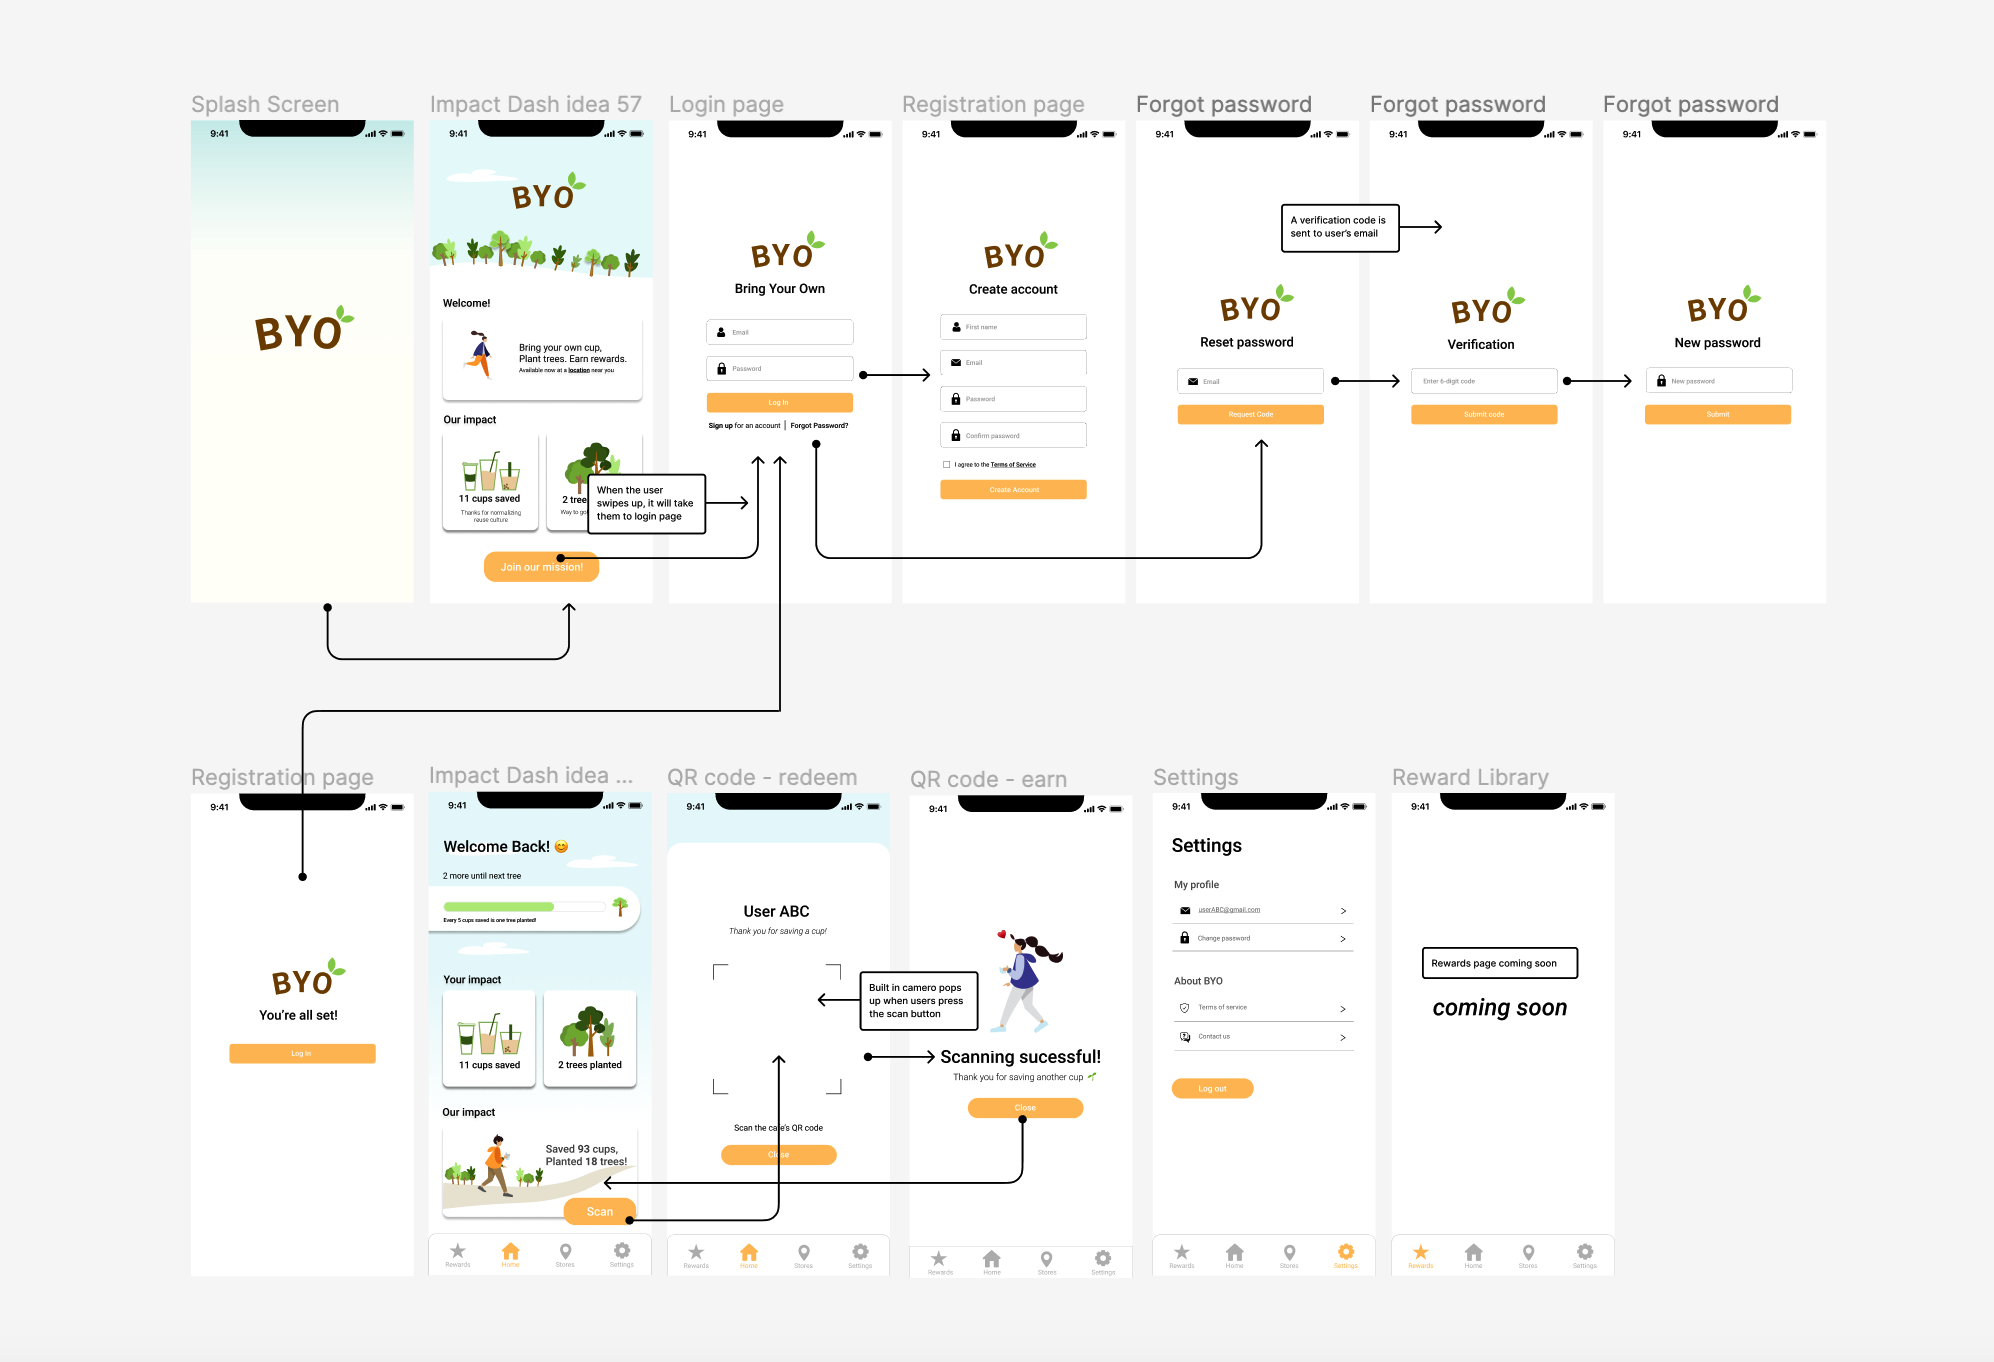
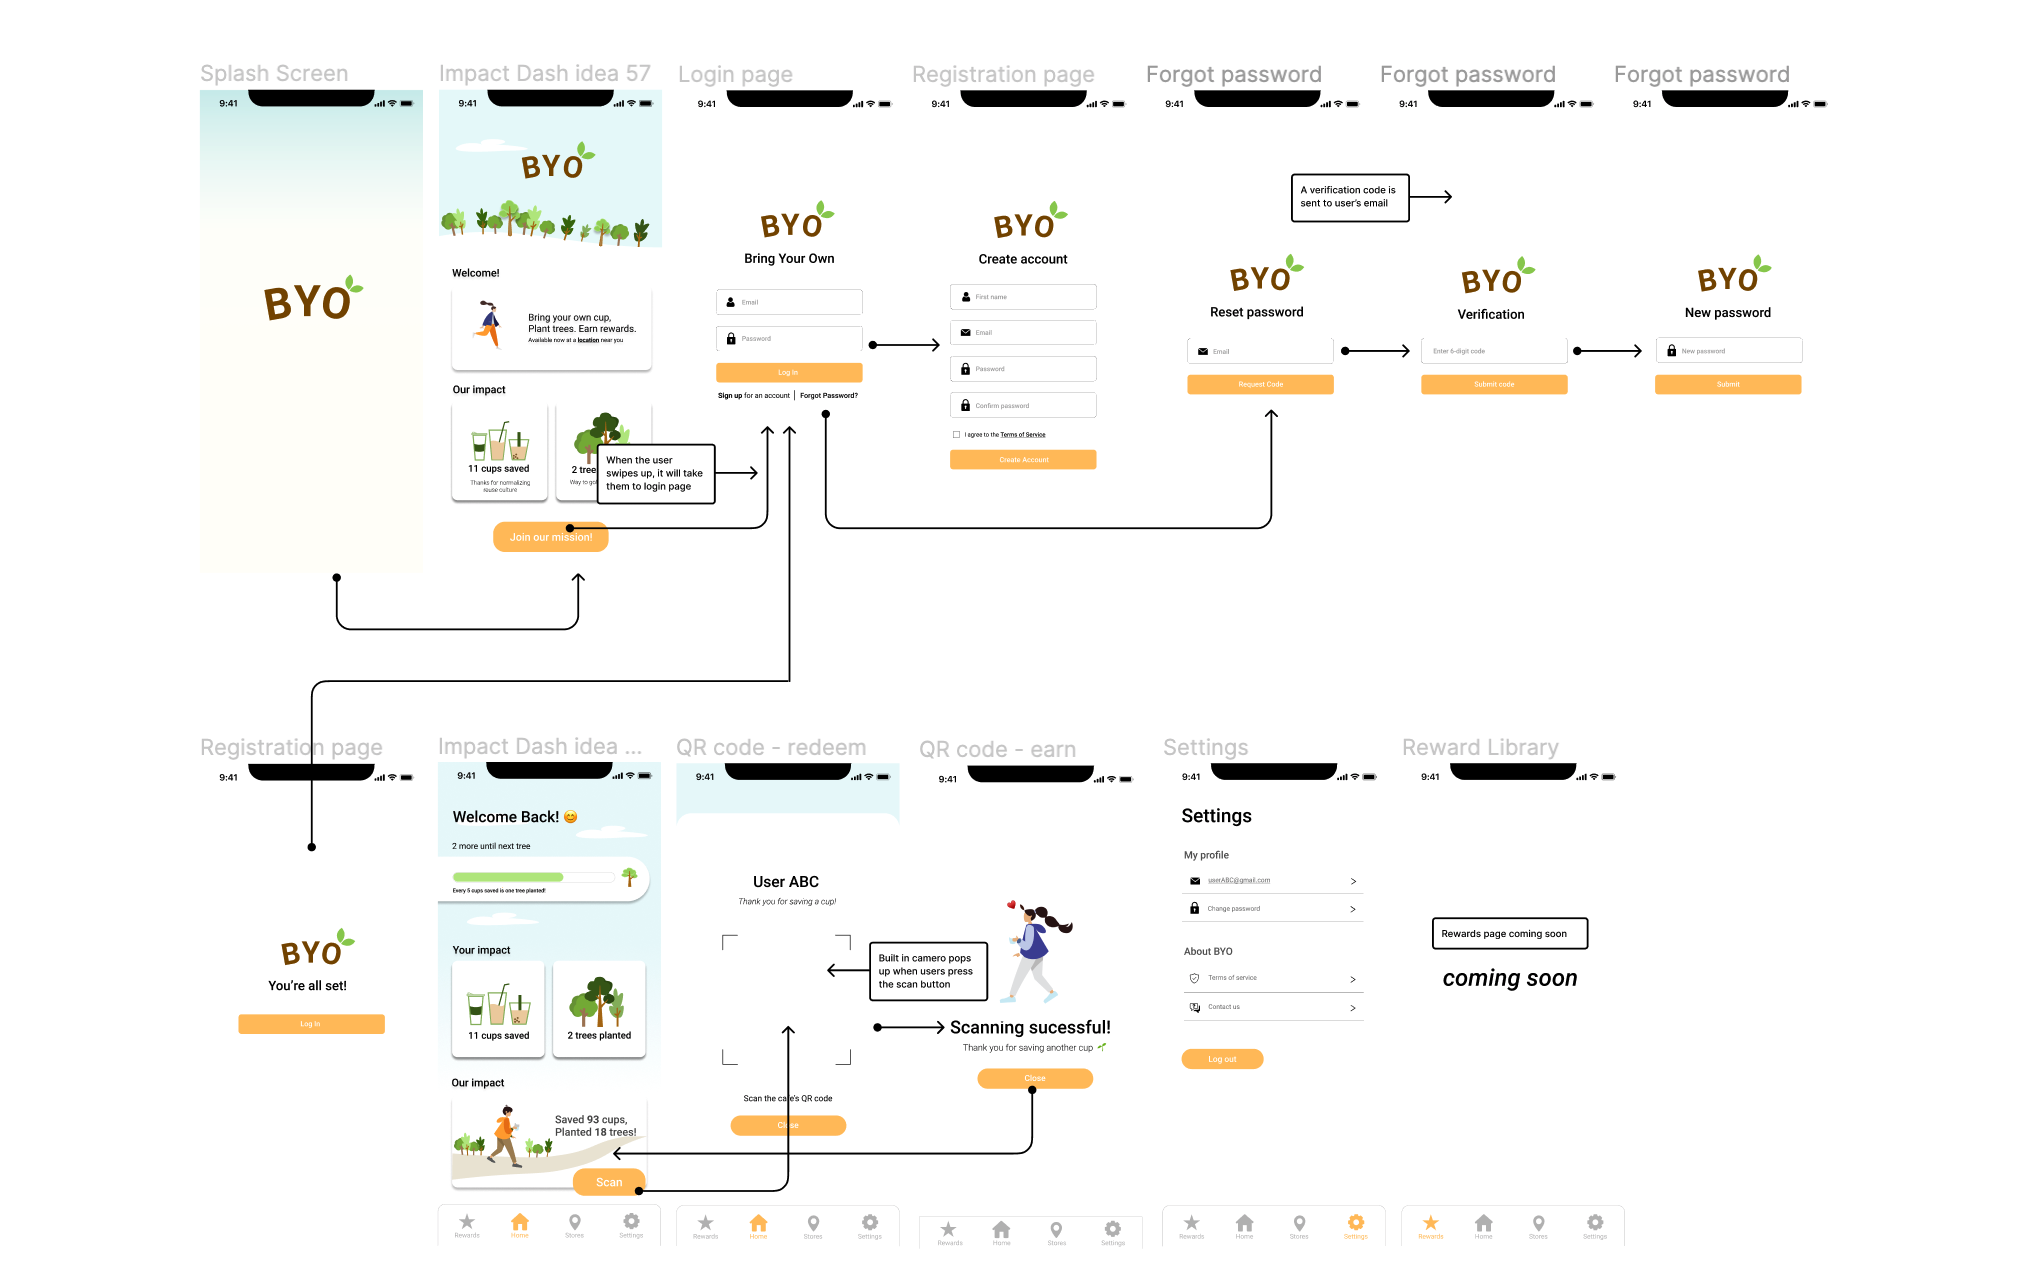
l

diff --git a/project2.html b/project2.html
@@ -155,7 +155,7 @@
 
          <p> At first glance, it was a little bit confusing to grasp the concept of having to claim the reward first in order to redeem it afterwards by using the scan button. As the BYO app is a reward based application, it was especially important for my team, especially back-end developers to clearly understand the reward-claiming process. In order to create a more feasible and improve user flowchart, I hope to create personas and implement user testing in the second iteration of the app. </p>
          <figure>
-         <img src = "img/flowchartv1.jpg" alt= "user flowchart" width = "600">
+         <img src = "img/flowchart.png" alt= "user flowchart" width = "600">
          <figcaption> User flowchart for rewards </figcaption>
         </figure>
 
@@ -173,7 +173,7 @@
 
         <p> For the dashboard prototype, I focused on exploring different layout options for the app through quick 12-minute low-fidelity wireframe design sprints. </p>
         <figure>
-        <img src = "img/impact.jpg" alt= "prototype 1" width = "750">
+        <img src = "img/low-wireframes.png" alt= "prototype 1" width = "750">
         <figcaption> Dashboard low-fidelity wireframes </figcaption>
         </figure>
 
@@ -215,7 +215,7 @@
 
         <p> Implementing shop profiles and a reward library will be the primary focus for v2 of the BYO app. Adding shop profiles is important for users to understand the unique shop policies and discounts per cup/ cup size which varies from store to store. During my team's weekly check-ins, I suggested to implement user profiles in order to give users a more personalized experience and provide the option to claim/redeem their rewards separately. </p>
         <figure>
-            <img src = "img/profiles.jpg" alt= "me" width = "700"> 
+            <img src = "img/profiles.png" alt= "me" width = "700"> 
             <figcaption> Shop profile prototype (left), User profile prototype (right) </figcaption>
           </figure>
         </div>
